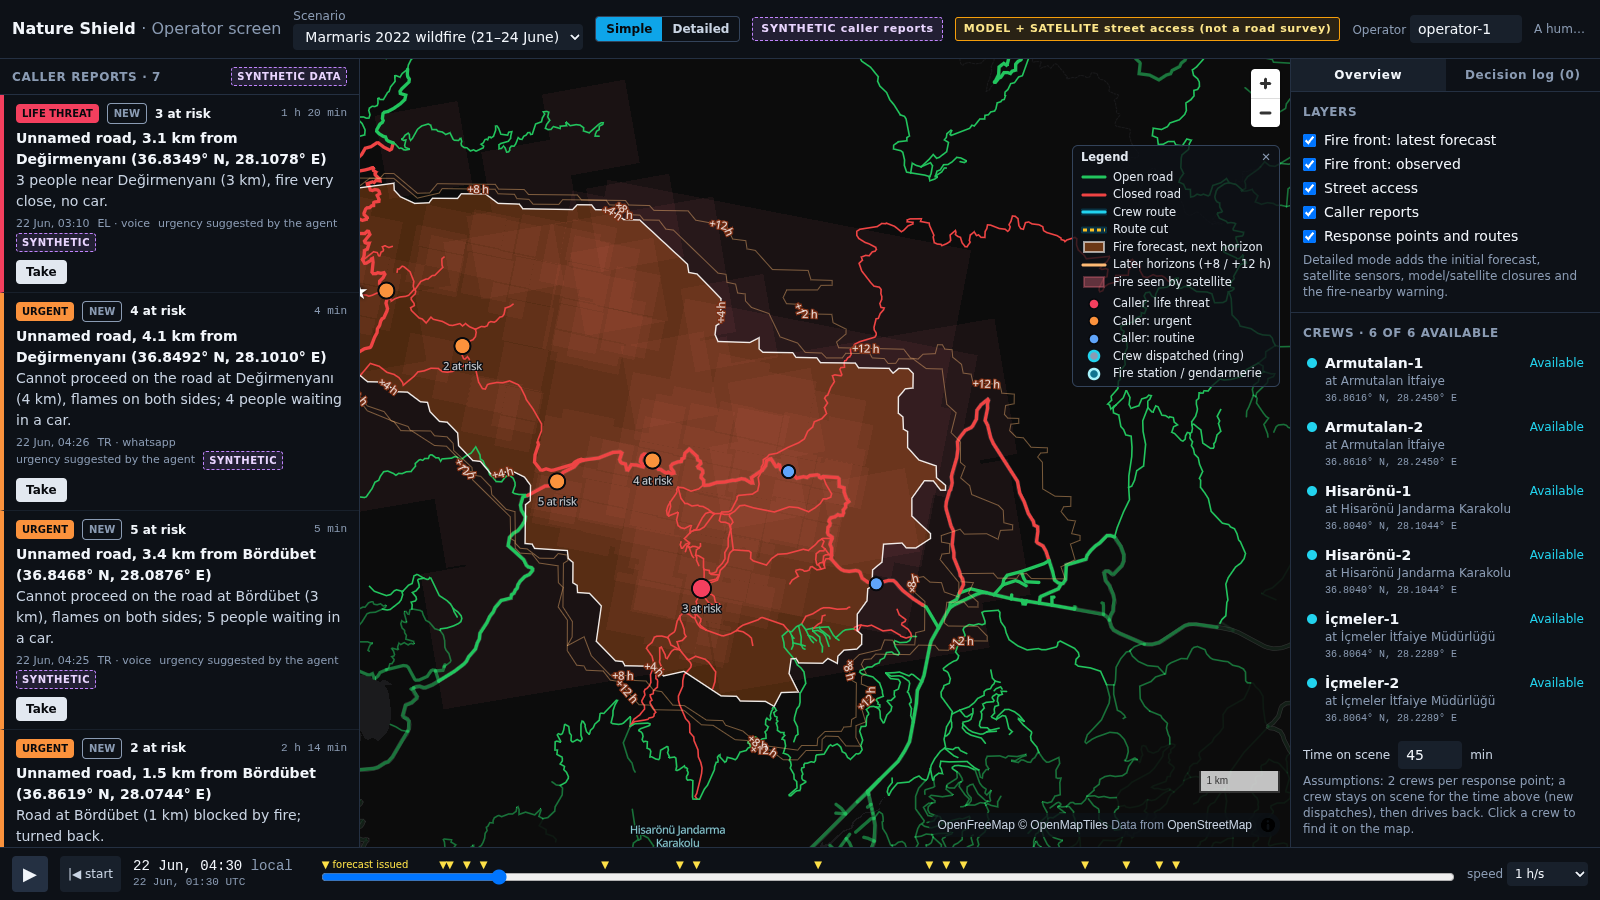
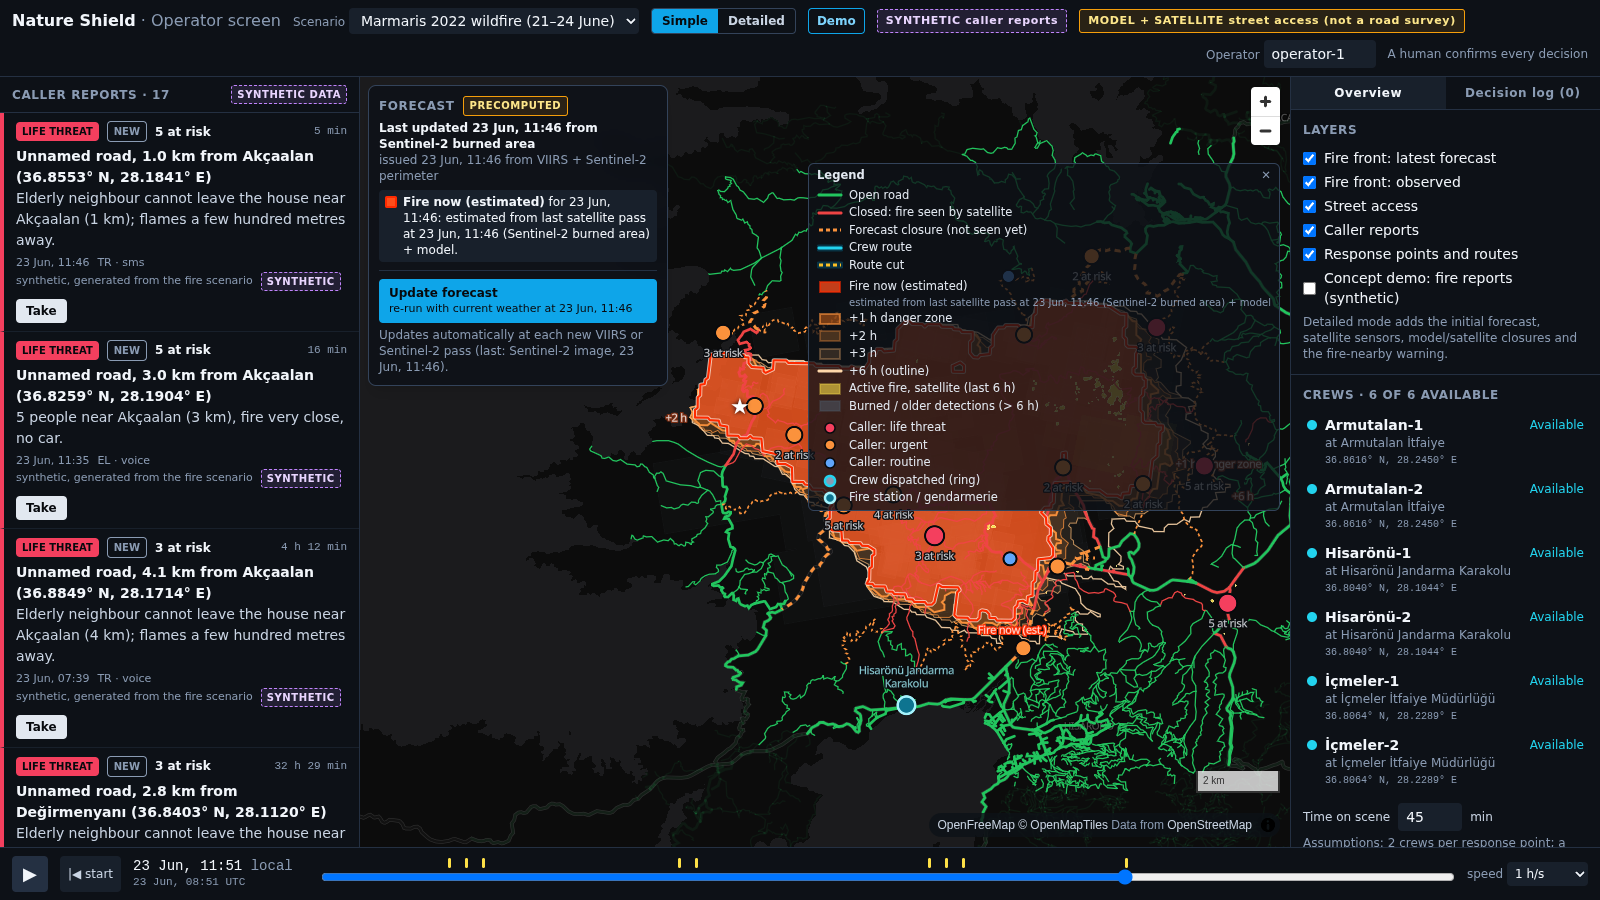
docs: screenshots of fire now, automatic update, route warning and time bar
Simple mode at 22 June 04:30 and 23 June 11:51 (local), legend open, the moment of an automatic
update, the route warning and the safer route, and the time-bar tooltip on desktop and phone.

diff --git a/README.md b/README.md
@@ -78,7 +78,7 @@ at 88 cut-off times and checks that the result matches the full scenario up to t
 |---|---|
 | ![Simple, 22 June 04:30](docs/simple_0430.png) | ![Simple, 23 June 11:51](docs/simple_1151.png) |
 
-Side by side with Detailed (before the forecast area was added to Simple):
+Older screenshots, side by side with Detailed (before "Fire now" was added):
 [22 June 04:30](docs/simple_vs_detailed_0430.png), [23 June 11:51](docs/simple_vs_detailed_1151.png).
 Legend opened: [docs/simple_legend_open.png](docs/simple_legend_open.png).
 
@@ -180,6 +180,7 @@ Before a presentation: open the site once on the presenting laptop (and on each 
   closer than 16 px are merged into one, slightly wider mark ("3 passes"), and the tooltip lists each of them.
 
   ![Time bar tooltip](docs/c6_timebar.png)
+  On a phone (tap): [docs/c6_timebar_phone.png](docs/c6_timebar_phone.png).
   Everything follows this clock: reports appear at `reported_at`, satellite observations at `valid_at`,
   a forecast contour turns solid at `valid_at` and is dashed before that.
 - **Map markers**: caller colour = urgency, ring = the operator's step; the label shows the people at risk.
@@ -491,6 +492,7 @@ the previous and the new value. **Download JSON** saves the log
   arrives first (42 of 42); a safer route is never riskier and never stops further from the caller.
 
   ![Route may be cut by fire](docs/c5_route_warning.png)
+  Safer route offered: [docs/c5_route_safer.png](docs/c5_route_safer.png).
 - Drive times are free-flow: road-class speeds as in the fire repository's evacuation settings (trunk 70,
   secondary 50, tertiary 40, residential and unclassified 30 km/h), plus our own 20 km/h for service roads and
   15 km/h for forest tracks. One-way restrictions, turn-out time and traffic are ignored.
